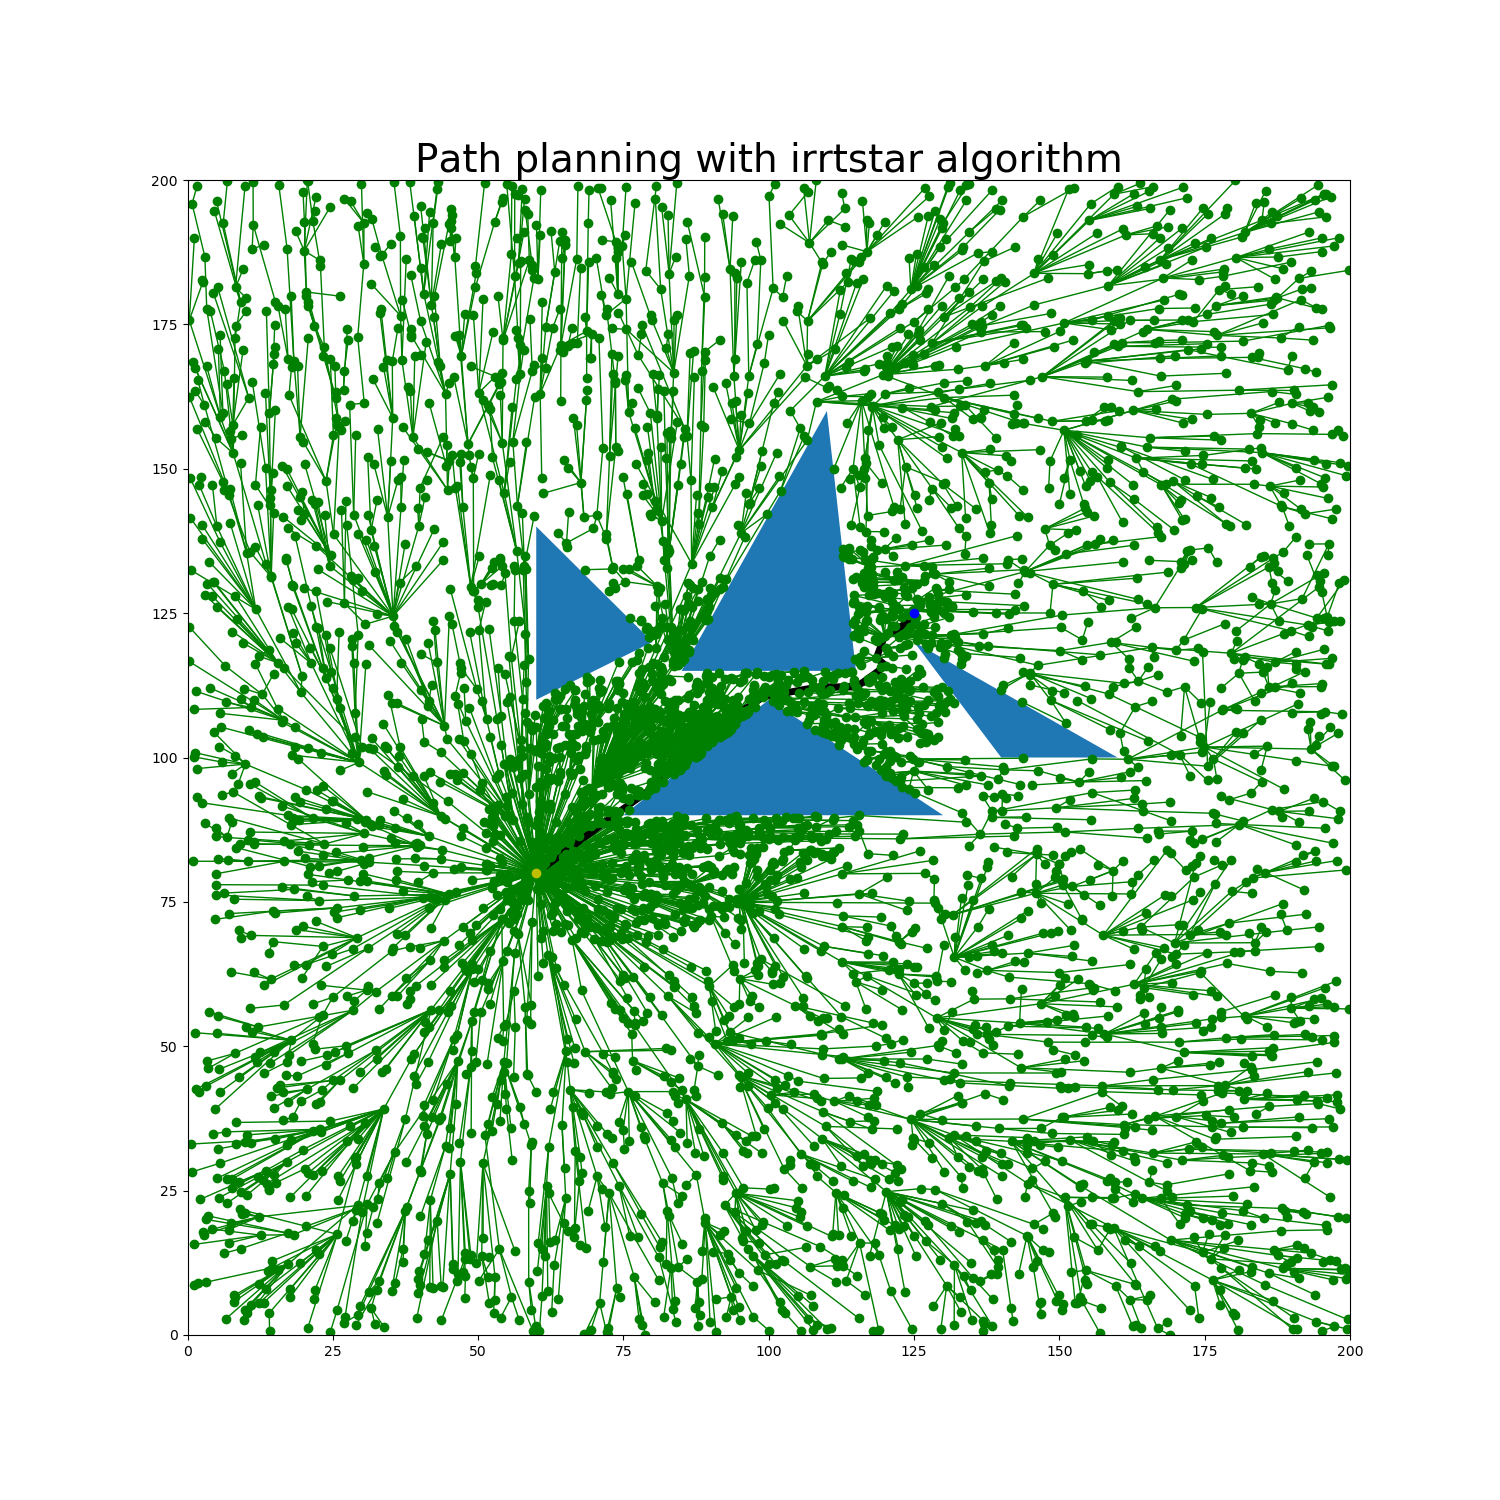
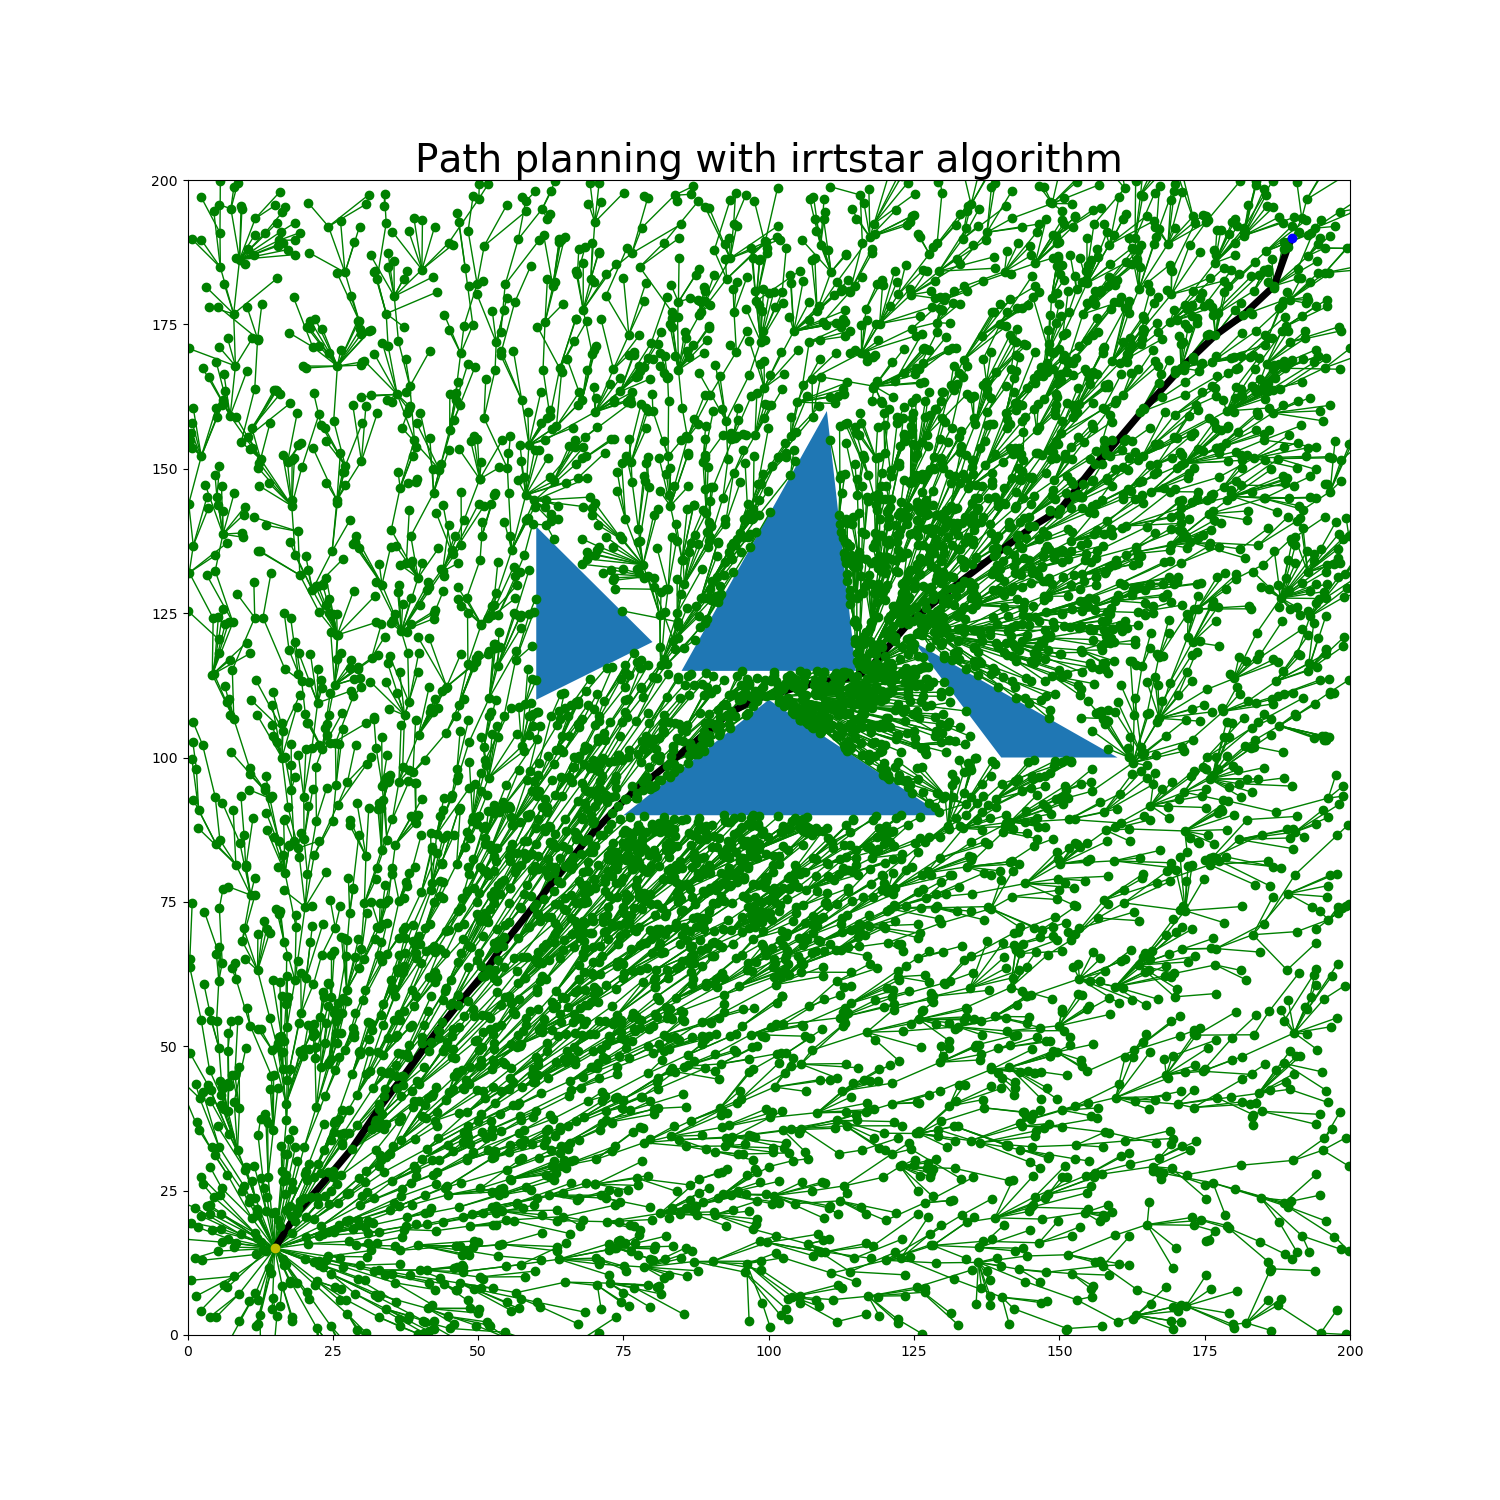
Fixed KdTree surrounding neighbors query

diff --git a/free_space_planners/test_KdTree.py b/free_space_planners/test_KdTree.py
@@ -9,6 +9,9 @@ import numpy as np
 from KdTree import KdTree
 from Node import SearchNode
 
+# For benchmarking
+from scipy import spatial
+
 def dist(a, b):
     return np.sqrt((a[0]-b[0])**2 + (a[1] - b[1])**2)
 
@@ -18,15 +21,15 @@ def main():
     # generate n points
     points = []
     for i in range(n):
-        x = random.randint(0, 100)
-        y = random.randint(0, 100)
+        x = random.randint(-100, 100)
+        y = random.randint(-100, 100)
         points.append([x, y])
         
-    s = [random.randint(0,100), random.randint(0, 100)]
-    s = set(s)
-    s = list(s)
+    s = [random.randint(101,105), random.randint(101, 105)]
+    assert(s not in points)
 
     # FINDING NEAREST NEIGHBOR
+    print(f"Finding nearest neighbor of {s}")
     # navie appraoch
     min_dist = np.inf
     nearest_pt = None
@@ -43,6 +46,7 @@ def main():
 
 
     #KdTree
+    print("#######################")
     start_time = time.time()
     t = KdTree(points[0])
     for i in range(1, len(points)):
@@ -54,9 +58,22 @@ def main():
     end_time = time.time()
     print(f"KdTree solution: {nearest_position} found in {end_time-start_time}s")
 
+    # Scipy
+    print("#######################")
+    start_time = time.time()
+    scipy_tree = spatial.KDTree(points)
+    end_time = time.time()
+    print(f"Scipy KdTree constructed in {end_time - start_time}s")
+    start_time = time.time()
+    d, i = scipy_tree.query([s])
+    end_time = time.time()
+    print(f"Scipy tree solution: {scipy_tree.data[i[0]]} found in {end_time-start_time}s")
+
+
     # FINDING NEAREST NEIGHBORS AT DISTANCE K
-    distance = 5.0
-    print(f"Nearest neighbors at distance {distance}")
+    distance = 10.0
+    print("#######################")
+    print(f"Nearest neighbors of {s} at distance {distance}")
     
     # naive approach
     nearest_points_naive = []
@@ -67,18 +84,26 @@ def main():
             nearest_points_naive.append(p)
     end_time = time.time()
     print(f"Naive solution found {len(nearest_points_naive)} points in {end_time-start_time}s")
-    print(nearest_points_naive)
 
+    # kd tree
     start_time = time.time()
     nearest_points_tree = t.surrounding_positions(s, distance)
     end_time = time.time()
     print(f"KdTree solution found in {len(nearest_points_tree)} points in {end_time - start_time}s")
-    print(nearest_points_tree)
+    
+    # Scipy
+    start_time = time.time()
+    nearest_points_scipy = scipy_tree.query_ball_point(s, distance)
+    end_time = time.time()
+    print(f"Scipy solution found in {len(nearest_points_scipy)} points in {end_time - start_time}s")
+
+    # Tests
+    print("#######################")
     for p in nearest_points_tree:
         assert(dist(p, s) <= distance)
     for p in nearest_points_naive:
         assert p in nearest_points_tree
-
+    print("All tests passed!")
 
 if __name__ == '__main__':
     main()

diff --git a/free_space_planners/KdTree.py b/free_space_planners/KdTree.py
@@ -7,12 +7,18 @@ class Node:
         self.left = left
         self.right = right
 
+class BoundingBox:
+      def __init__(self, position, distance):
+          self.min = [position[0] - distance, position[1] - distance]
+          self.max = [position[0] + distance, position[1] + distance]
+
 class KdTree:
     def __init__(self, position:list):
       self.root = Node(position)
       self.k = len(self.root.position)
       # used for neighborhood search
       self.nearest_positions = []
+      self.position_boundary = None
 
     def __add(self, position:list, root:Node, depth):
         axis = depth % self.k
@@ -86,7 +92,6 @@ class KdTree:
         depth = 0
         return self.__nearest_position(root, position, depth).position
     
-
     def __surrounding_positions(self, root:Node, position, distance, depth):
         if root is None:
             return None
@@ -95,23 +100,22 @@ class KdTree:
             self.nearest_positions.append(root.position)
         
         axis = depth % self.k
-        next_root = root.right
-        opposite_root = root.left
 
-        if position[axis] < root.position[axis]:
-            next_root = root.left
-            opposite_root = root.right
-
-        if opposite_root is not None:
-            if self.__dist(position, opposite_root.position) <= distance:
-                self.nearest_positions.append(opposite_root.position)
-
-        self.__surrounding_positions(next_root, position, distance, depth + 1)        
-        
+        if self.position_boundary.min[axis] < root.position[axis] and self.position_boundary.max[axis] < root.position[axis]:
+            # search left node
+            self.__surrounding_positions(root.left, position, distance, depth + 1)
+        elif self.position_boundary.min[axis] > root.position[axis] and self.position_boundary.max[axis] > root.position[axis]:
+            # search right node
+            self.__surrounding_positions(root.right, position, distance, depth + 1)
+        else:
+            # check both
+            self.__surrounding_positions(root.left, position, distance, depth + 1)
+            self.__surrounding_positions(root.right, position, distance, depth + 1)    
 
     def surrounding_positions(self, position, distance):
         root = self.root
         depth = 0
         self.nearest_positions = []
+        self.position_boundary = BoundingBox(position, distance)
         self.__surrounding_positions(root, position, distance, depth)
         return self.nearest_positions

diff --git a/free_space_planners/RRTStar.py b/free_space_planners/RRTStar.py
@@ -33,7 +33,7 @@ def SampleUnitBall():
     return np.array([r*np.cos(theta), r*np.sin(theta), 0.0])
 
 def InformedSample(c_max, c_min, x_center, C, map:Map):
-    if c_max < np.inf: # if a path to goal has been found we sample from the prolate  hyperspheroid
+    if c_max != np.inf: # if a path to goal has been found we sample from the prolate  hyperspheroid
         r1 = c_max / 2.0
         rn = math.sqrt(c_max **2 - c_min **2) / 2.0
         L = np.diag([r1, rn, rn])
@@ -46,10 +46,10 @@ def InformedSample(c_max, c_min, x_center, C, map:Map):
 
 
 def RRTStarSolver(map:Map, start:list, goal:list, steps=False, informed=False):
-    goal_radius = 2.0 # meters
+    goal_radius = 2.5 # meters
     max_step = 10.0
-    neighborhood = 20.0
-    n = 6000
+    neighborhood = 10.0
+    n = 7000
 
     # Constants for informed sampling
     c_best = np.inf # cost to goal
@@ -79,15 +79,10 @@ def RRTStarSolver(map:Map, start:list, goal:list, steps=False, informed=False):
 
     found = False
     while (num_expanded < n):
-        num_expanded = num_expanded + 1
-
         if not informed:
             random_position = map.random_position()
         else:
             random_position = InformedSample(c_best, c_min, x_center, C, map)
-
-        if (in_point_collision(random_position, map)):
-            continue
 
         # get nearest node
         new_node = SearchNode(random_position)
@@ -146,6 +141,7 @@ def RRTStarSolver(map:Map, start:list, goal:list, steps=False, informed=False):
         # add new node to graph and tree
         expanded_nodes[(new_node.position[0], new_node.position[1])] = new_node
         tree.add(new_node.position)
+        num_expanded = num_expanded + 1
 
     if (found):
         print(f"Path from {start} to {goal} found with distance {goal_node.distance} after expanding {num_expanded} nodes")

diff --git a/free_space_planners/RRT.py b/free_space_planners/RRT.py
@@ -9,9 +9,9 @@ import threading
 import time
 
 def RRTSolver(map:Map, start:list, goal:list, steps=False):
-    goal_radius = 2.0 # meters
+    goal_radius = 2.5 # meters
     max_step = 10.0
-    n = 6000
+    n = 7000
   
     if in_point_collision(start, map):
         print(f"[error] start {start} is on an obstacle")

diff --git a/free_space_planners/main.py b/free_space_planners/main.py
@@ -21,8 +21,8 @@ def main():
 
     map_width = 200
     map_height = 200
-    start = [60, 80]
-    goal = [125, 125]
+    start = [15, 15]
+    goal = [190, 190]
     map_obstacles = []
     
     ob1 = Obstacle(ConvexShape([[75,90], [100, 110], [130, 90]]))
